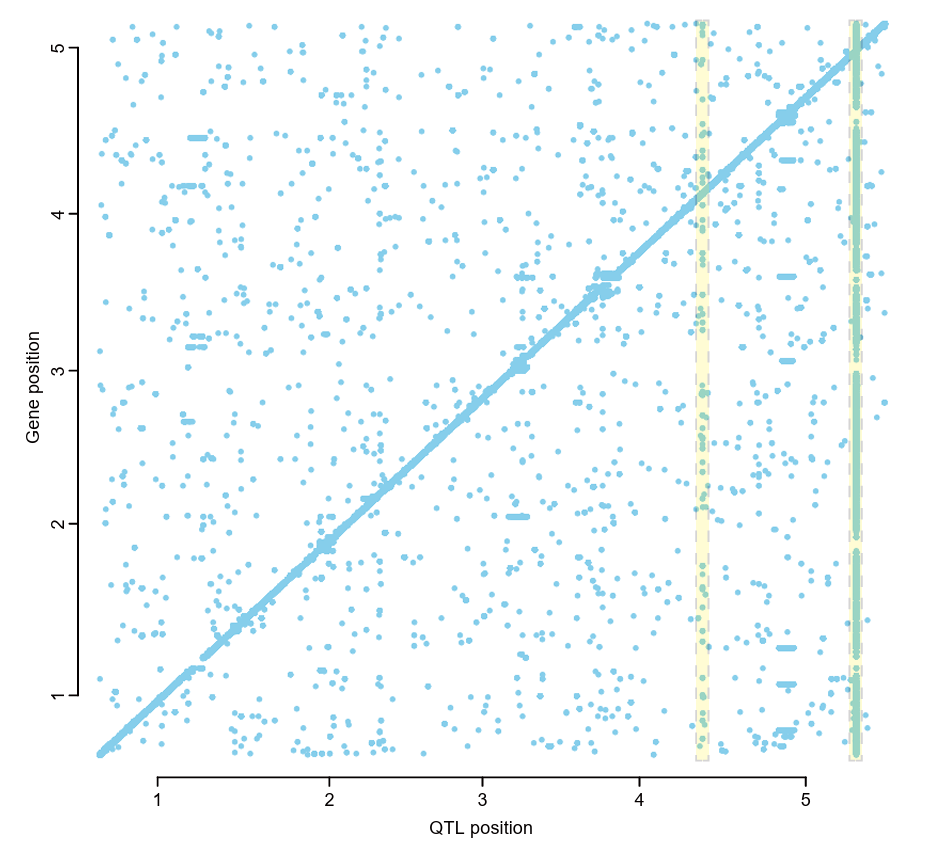
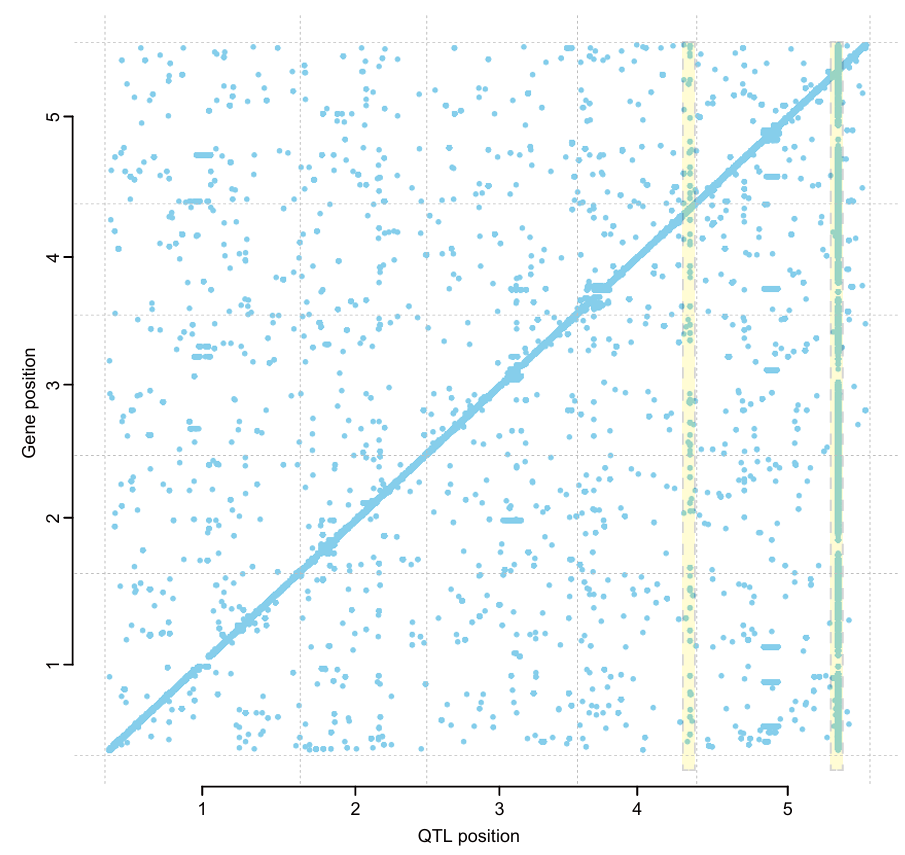
add

diff --git a/_docs/2Analysis/6Omic_QTL.md b/_docs/2Analysis/6Omic_QTL.md
@@ -34,14 +34,14 @@ order: 7
 |Time_qtl_1e-4.txt|The output of the invoked software for the Omic QTL analysis, including the associated snps with p-value less than 1e-4.|
 |Time_cis-trans_plot.pdf&png|The visualized results of the Omic QTL analysis. If genomic position of the omic data is provided, this plot will show the significant associated snps's position and the omic data's position. If not, it will not be shown.|
 |Time_QTL_times.pdf&png|The visualized results of the Omic QTL significant association frequency.|
-|Omic_manhattan_plot|A directory containing the Manhattan plot of the association results for each omic data (with significant association result).|
+|Time_Omic_manhattan_plot|A directory containing the Manhattan plot of the association results for each omic data (with significant association result).|
 
 ### Main Results Interpretation
 
-- Scatter plot of genes or probes and their QTL positions on chromosomes.
+- Scatter plot of genes or probes and their QTL positions on chromosomes.The x-axis represents the genomic positions of the detected eQTL, while the y-axis represents the genomic positions of the associated genes.
 
-<div align=center><img src="../../figures/image18.png" width="100%"/></div>
-
+<div align=center><img src="../../figures/image18.png" width="90%"/></div>
+![alt text](image.png)
 - Text file containing association results of all SNPs.
   
 ```txt
@@ -53,4 +53,13 @@ SNP gene beta t-stat p-value FDR
 1:19463170 AT1G52270 0.671582251314867 27.9031631086884 6.15721634281558e-111 1.20088034160951e-101
 ```
 - The p-value: Similar to GWAS, the p-value of SNPs means the significance of the association with some molecular phenotype. Only the association with p-value passed the threshold could be saved. 
-- The cis-trans QTLs: A cis-QTL represents a quantitative trait locus that is located near the genomic position of the omic trait it influences. This proximity often suggests a direct regulatory relationship. Conversely, a trans-QTL is identified as a QTL that is distal to the position of the omic trait, indicating an influence that is mediated through more complex genetic and molecular interactions.
+- The cis-trans QTLs: A cis-QTL represents a quantitative trait locus that is located near the genomic position of the omic trait it influences. This proximity often suggests a direct regulatory relationship. Conversely, a trans-QTL is identified as a QTL that is distal to the position of the omic trait, indicating an influence that is mediated through more complex genetic and molecular interactions. 
+
+- Scatter plot of the QTL significant association frequency. The x-axis represents the genome position, which was seperated by 50,000bp. The y-axis represents the number of significant associations. For example, the top-right corner of the point represents qtls located in this region are significantly associated with ~10^3.6 omics data, which also means the potential trans-QTLs.
+<div align=center><img src="../../figures/timesimage.png" width="90%"/></div>
+
+- The figures at folder "Time_Omic_manhattan_plot": This is a filtered Manhattan plot of the association results for each omic data. Only snps with association p-value less than 1e-4 are shown in the plot. As same as manhattan plot in GWAS, the x-axis represents the genomic position of the snps, and the y-axis represents the -log10(p-value) of the association. These figures were used to identify the stochastic association and highly potential association. If a visible peak is shown in the plot, it means the significant association between this omic probe and the qtl around the peak is highly potential.
+  - The left figure shows a peak located in the top region of chromosome 1, which means the omic probe located in this region is highly associated with the qtl around this region.
+  - The right figure don't show any peak, which means the omic probe located in this region perhaps is not a true association.
+
+<div align=center><img src="../../figures/qtl_tf.png" width="90%"/></div>

diff --git a/_docs/2Analysis/5Locus_zoom.md b/_docs/2Analysis/5Locus_zoom.md
@@ -38,6 +38,10 @@ order: 6
 ### Main Results Interpretation
 
 - Visualization of results including linkage and P-values of the selected SNP and other SNPs; genes in the interval; linkage between all SNPs in the interval. 
+  - In the top panel, the top red square means the SNP you selected, the other snp are colored by their LD with the selected SNP, and the height of each SNP means the -log10(p-value) of the SNP. 
+  - The middle panel shows the genes in the region. For each gene, the gene structure was annotated. Red colored region means the CDS region, and the purple colored region means the UTR region. Each line in this panel mean the location of SNP.
+  - In the bottom panel, the LD between the selected SNP and other SNPs are shown. The color of the triangle means the LD value between the two SNPs. The darker color means the higher LD value. The green line from middle panel to bottom panel means the location of the SNP in the genome region.
+  
 ![Alt text](../../figures/Fig3C.png)
 - Phenotypes of individuals with different genotypes of the selected SNP.
 

diff --git a/_docs/1Install/2EasyOmics_install.md b/_docs/1Install/2EasyOmics_install.md
@@ -11,11 +11,14 @@ After installing Docker users need to follow these steps:
 
 <div align=center><img src="../../figures/image-13.png" width="80%" /></div>
 
-If you cannot download/search the image because of some network problems:
+If you cannot download/search the image because of some network problems (mainly caused by the Great Firewall in China), you can download the image from the following links:
 - download image form one of below links:
   - Figshare: https://doi.org/10.6084/m9.figshare.26317273.v1  
   - Baidu Netdisk: https://pan.baidu.com/s/16TeFgBgAmZ9BiIiJcBGURw?pwd=gp6g
-- Uncompress gwas.tar.gz to gwas.tar
+- Uncompress easyomics.tar.gz to easyomics.tar 
+
+[tutorial video link of below steps](https://www.bilibili.com/video/BV1mVveeREqS?vd_source=3223be254b7729f362a7c9fd14e43925&p=3&spm_id_from=333.788.videopod.episodes)
+
 - Go to Command (Windows sys) or Terminal (MacOS sys)
-- Enter command: docker load --input downloadpath/gwas.tar
+- Enter command: docker load --input downloadpath/easyomics.tar
 - Check image panel in Docker Desktop

diff --git a/_docs/2Analysis/0Example_data.md b/_docs/2Analysis/0Example_data.md
@@ -35,6 +35,10 @@ family id FT16
 
 - Standard VCF format genotype file, where the individual code must follow the format "family code_individual code". The content of first 9 columns are fixed, and the 10th+ columns are the genotype information of each individual.
   - If no family information is available, the family code can be **set as the individual code** (eg. 108_108) or **just contain the id** (eg. 108) in file.
+- For other type of variation data, like SVs or Indels, the format should be similar to VCF format.
+  - The most important thing is that the variation must be **bi-allelic**.
+  - The Ref and Alt columns could be any thing, EasyOmics will automatically convert them to sutiable format.
+
 ```txt
 #CHROM  POS     ID      REF     ALT     QUAL    FILTER  INFO    FORMAT  108_108 139_139
 1       73      1:73    C       A       .       .       PR      GT      0/0     0/0

diff --git a/_docs/2Analysis/9OmicWAS.md b/_docs/2Analysis/9OmicWAS.md
@@ -32,3 +32,12 @@ order: 10
 |Time_moa_1_1.log&.moa|The output of the invoked software for the OmicWAS analysis.|
 |Time_OmicWAs_manhattan.pdf&png|The visualized results of the OmicWAS analysis. Includes a Manhattan plot of the association results.|
 |Time_top_genes.txt|The association result of the significant associated Omic data.|
+
+
+### Main Results Interpretation
+
+- Manhattan plot.
+<div align=center><img src="../../figures/Fig6.png" width="80%"/></div>
+
+- The p-value: p-value means the significance of association between omic data and phenotype. If some Omic data pass the threshold, these Omic data are statistically significant association between the omic data and the trait.
+  

diff --git a/_docs/1Install/4EasyOmics_update.md b/_docs/1Install/4EasyOmics_update.md
@@ -4,7 +4,11 @@ category: Software Install
 order: 4
 ---
 
+We will routinely update EasyOmics, so you can check the version in the tutorial [update log page](https://hanyu-me.github.io/EasyOmics_tutorial/changelog/).
+
 For updating, the step is similar to EasyOmics install.
-- Search for yuhan2000 and pull (download) the latest image yuhan2000/gwas:latest
+- Search for yuhan2000 and pull (download) the latest image yuhan2000/easyomics:latest
 
 <div align=center><img src="../../figures/image-13.png" width="80%" /></div>
+
+- At the same time, the latest version of EasyOmics will be updated in the figshare.

diff --git a/_docs/1Install/3EasyOmics_start.md b/_docs/1Install/3EasyOmics_start.md
@@ -9,7 +9,7 @@ order: 3
 <div align=center><img src="../../figures/image-11.png" width="80%" /></div>
 
 - Set the container parameters. 
-  - Container name could be any character (eg.EasyOmics).
+  - Container name could be any character (eg.gwas_test).
   - Host port could be 0 or any other four digits (eg. 3838).
   - Directory :
     - <b>Host path is the local empty directory path to save analysis results (eg. C:/Desktop/new_dir/). </b>
